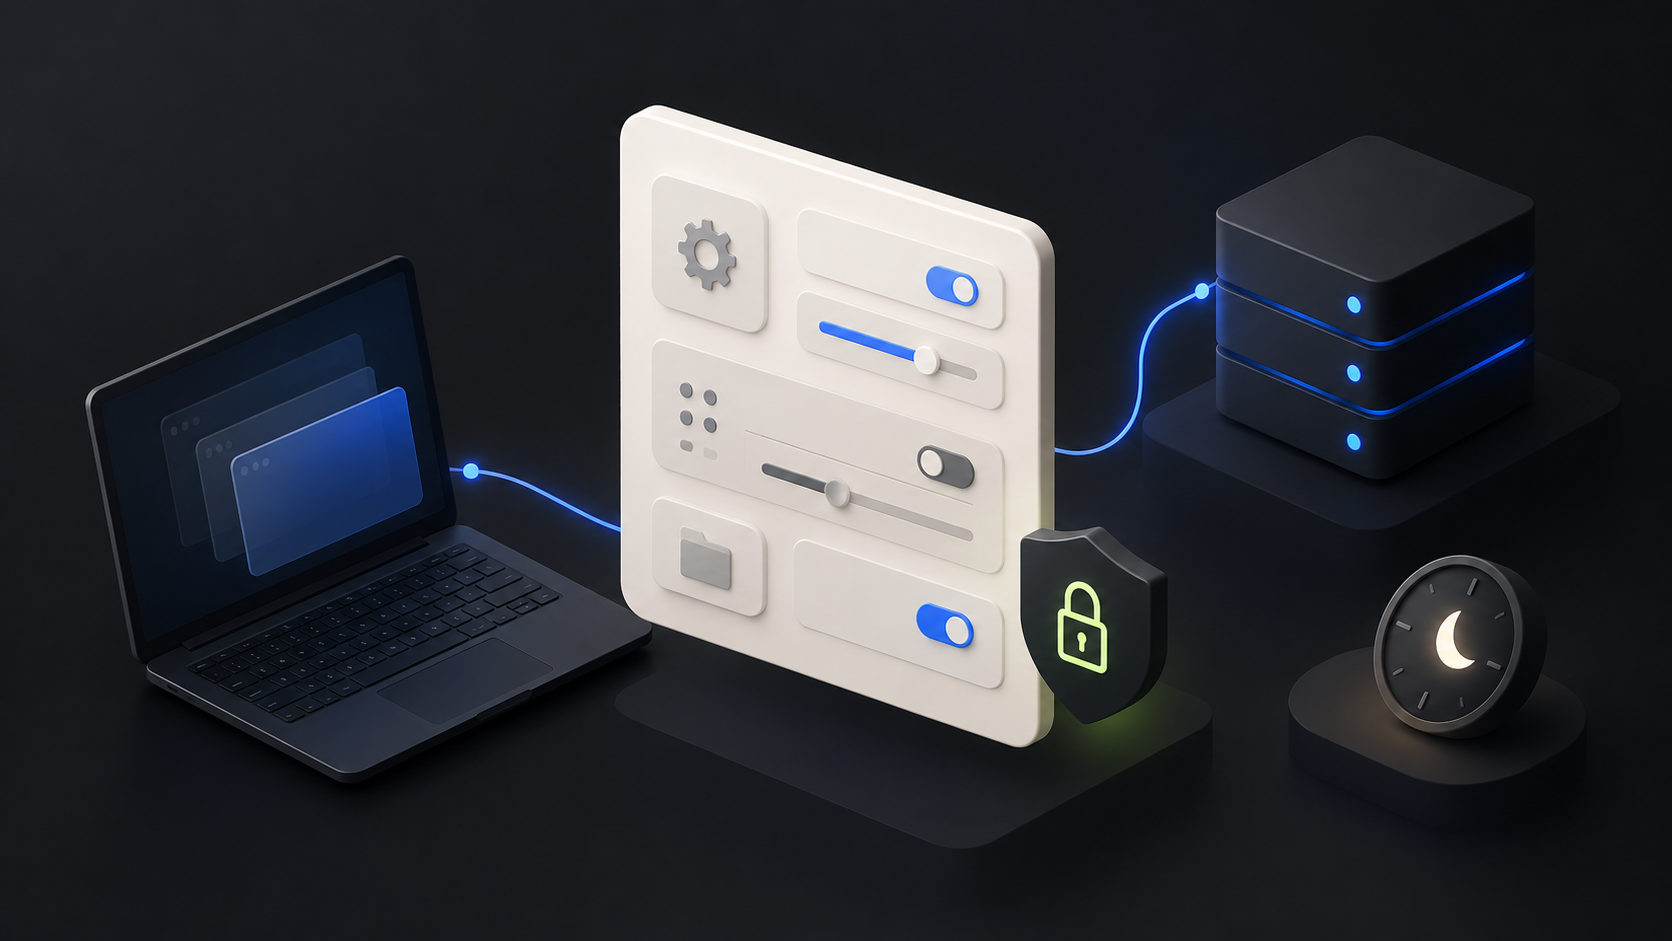
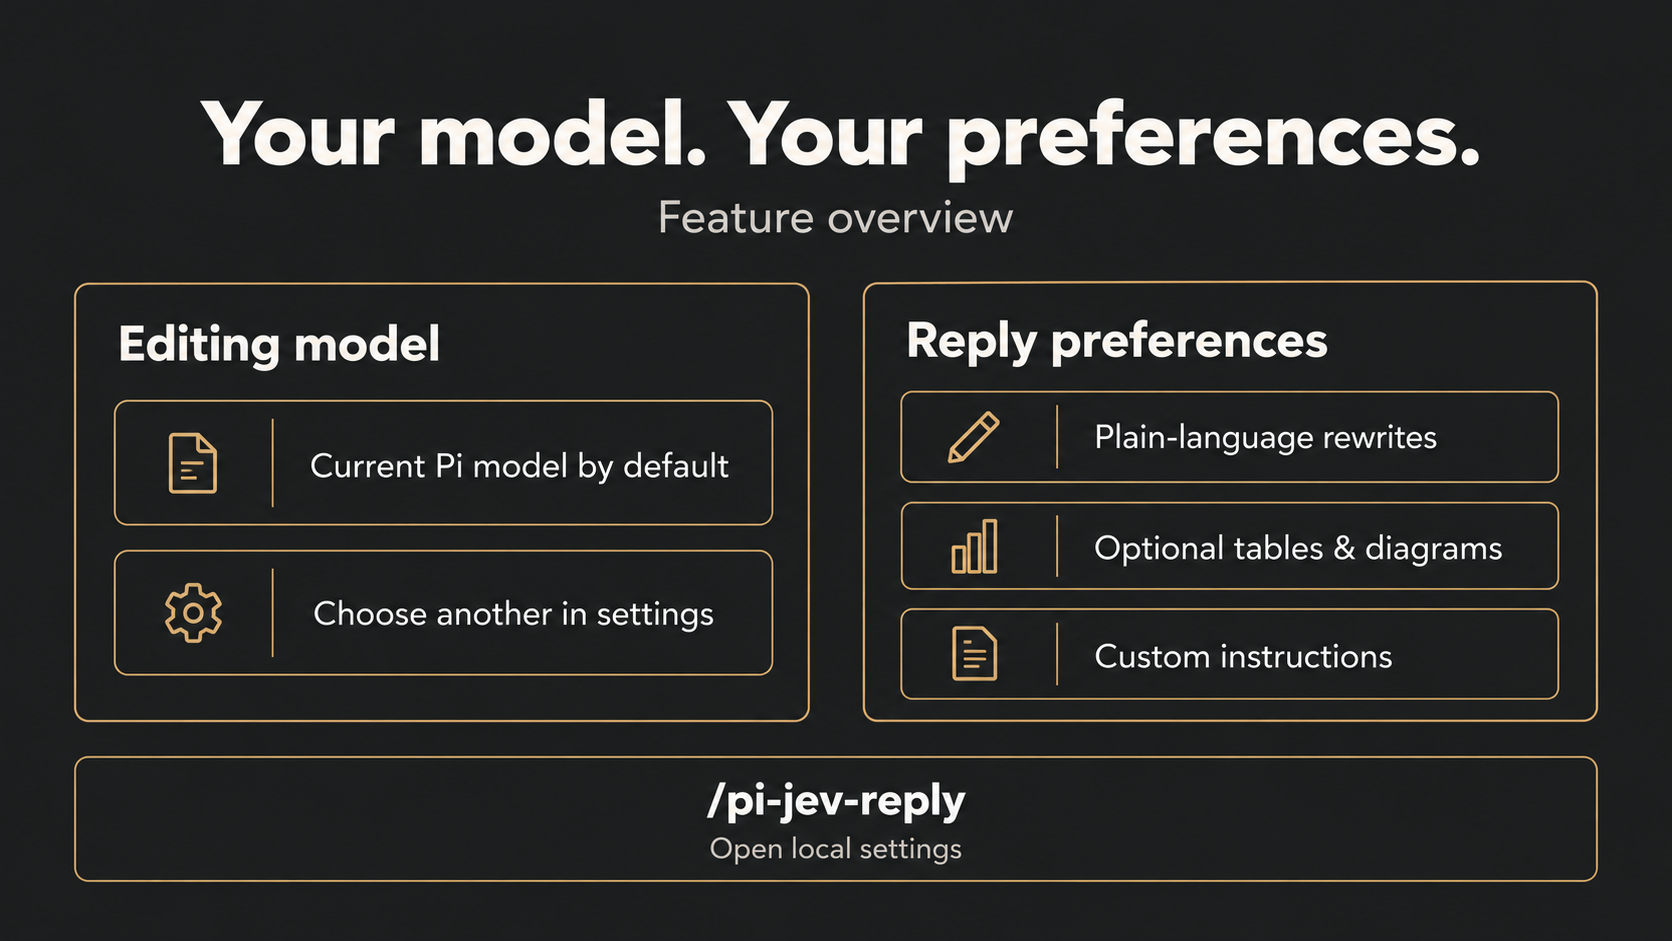
Replace decorative artwork with concise feature illustrations

Changed region(s): [[0.0311, 0.0925, 0.9641, 0.9245], [0.9019, 0.8013, 0.9641, 0.8321], [0.6842, 0.8013, 0.7464, 0.8321]]

diff --git a/README.md b/README.md
@@ -1,6 +1,8 @@
 <p align="center">
-  <img src="https://unpkg.com/@each1024/pi-jev-reply@0.9.3/assets/hero.png" alt="A reply passing through a clarity gate" width="100%" />
+  <img src="https://raw.githubusercontent.com/eachann1024/pi-jev-reply/main/assets/hero.png" alt="Illustrative before-and-after plain-language rewrite" width="100%" />
 </p>
+
+*Illustrative rewrite: replace jargon with plain language. Failed or invalid edits keep the original.*
 
 # Pi Jev Reply
 
@@ -26,10 +28,6 @@ Requires Pi ≥ 0.85.1 and Node ≥ 22.18.0. Interactive TUI only; RPC and print
 
 ## From draft to clear reply
 
-<p align="center">
-  <img src="https://unpkg.com/@each1024/pi-jev-reply@0.9.3/assets/workflow.svg" alt="Jev reviews the draft; your selected model edits it when needed" width="760" />
-</p>
-
 | Review | Refine | Return |
 | --- | --- | --- |
 | With a key, Jev decides whether an edit helps. | Your current or selected model clarifies wording and can add a small table, diagram, or text chart. | The revised reply appears. Failed or invalid edits leave the original intact. |
@@ -39,8 +37,10 @@ Without a Jev key, enabled rewrites go directly to your model. There is no secon
 ## Make it yours
 
 <p align="center">
-  <img src="https://unpkg.com/@each1024/pi-jev-reply@0.9.3/assets/settings.png" alt="Local, on-demand settings" width="720" />
+  <img src="https://raw.githubusercontent.com/eachann1024/pi-jev-reply/main/assets/settings.png" alt="Editing model and reply preferences — feature overview" width="720" />
 </p>
+
+*Feature overview, not a UI screenshot: use the current Pi model or choose another, then adjust rewrites, visuals, and instructions.*
 
 ```text
 /pi-jev-reply             Open settings

diff --git a/README.zh-CN.md b/README.zh-CN.md
@@ -1,6 +1,8 @@
 <p align="center">
-  <img src="https://unpkg.com/@each1024/pi-jev-reply@0.9.3/assets/hero.png" alt="回复穿过清晰之门" width="100%" />
+  <img src="https://raw.githubusercontent.com/eachann1024/pi-jev-reply/main/assets/hero.png" alt="直白改写的前后对比示例" width="100%" />
 </p>
+
+*改写示例：用直白措辞替换黑话；失败或无效编辑保留原文。*
 
 # Pi Jev Reply
 
@@ -26,10 +28,6 @@ pi install npm:@each1024/pi-jev-reply
 
 ## 从草稿到清晰回复
 
-<p align="center">
-  <img src="https://unpkg.com/@each1024/pi-jev-reply@0.9.3/assets/workflow.svg" alt="Jev 检查，所选模型编辑" width="760" />
-</p>
-
 | 检查 | 润色 | 展示 |
 | --- | --- | --- |
 | 有密钥时，由 Jev 判断是否需要编辑。 | 当前或指定模型改写措辞，可添加小表格、流程图或文字图表。 | 展示新回复；失败或无效编辑保留原文。 |
@@ -39,8 +37,10 @@ pi install npm:@each1024/pi-jev-reply
 ## 按你的习惯设置
 
 <p align="center">
-  <img src="https://unpkg.com/@each1024/pi-jev-reply@0.9.3/assets/settings.png" alt="按需开启的本地设置" width="720" />
+  <img src="https://raw.githubusercontent.com/eachann1024/pi-jev-reply/main/assets/settings.png" alt="编辑模型与回复偏好功能示意" width="720" />
 </p>
+
+*功能示意：默认使用当前 Pi 模型，也可另选模型，并调整改写、图表和自定义指令。不是界面截图。*
 
 ```text
 /pi-jev-reply             打开设置
